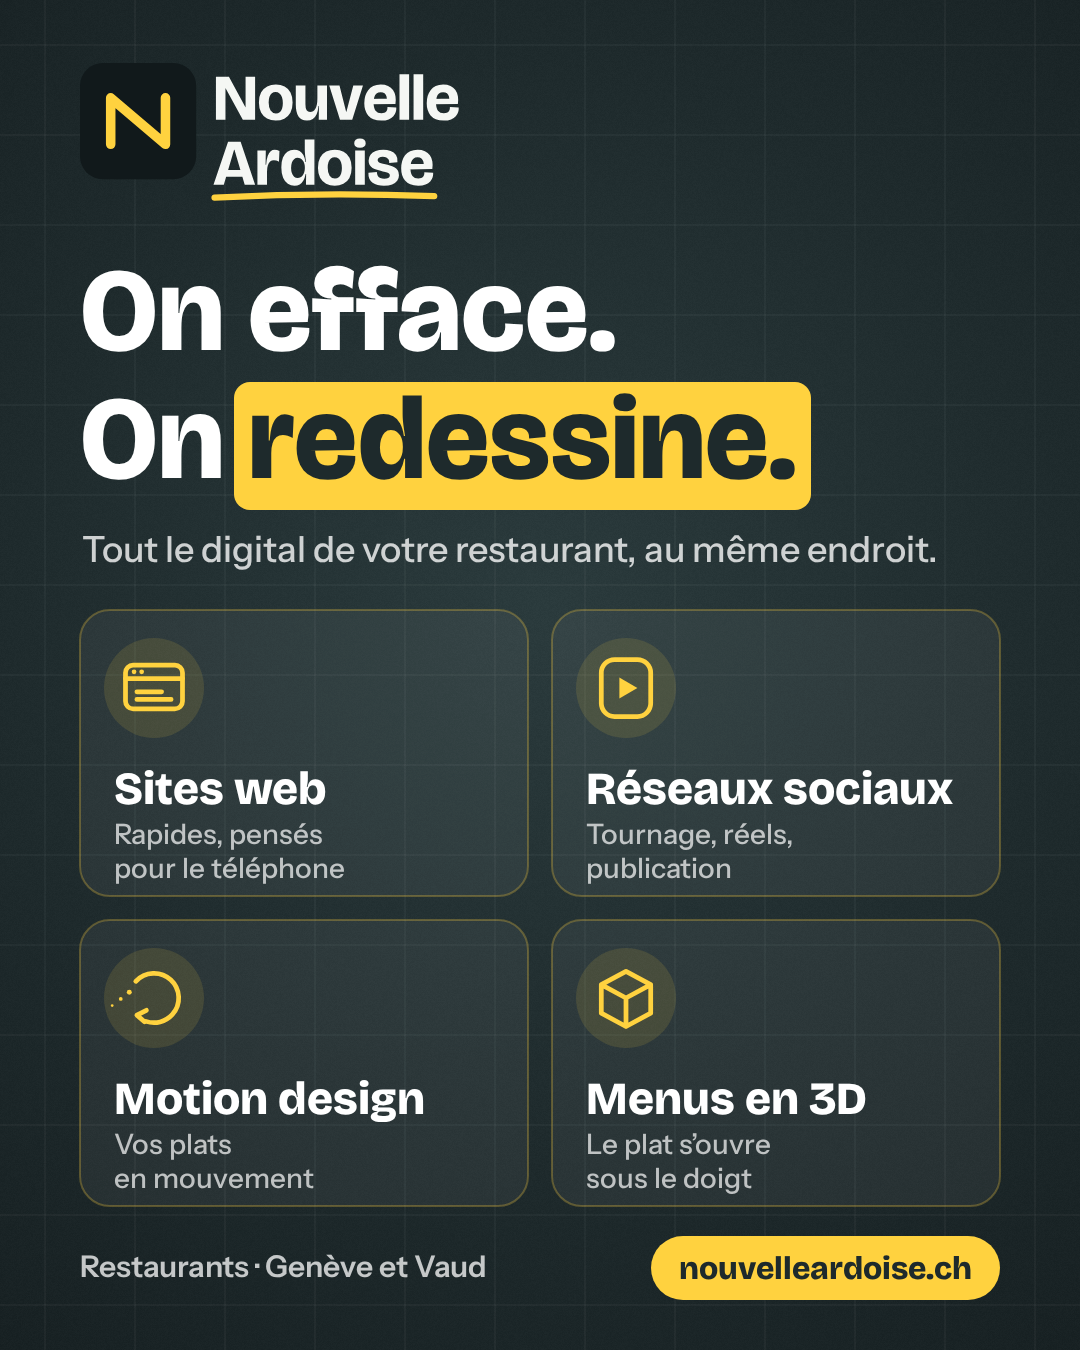
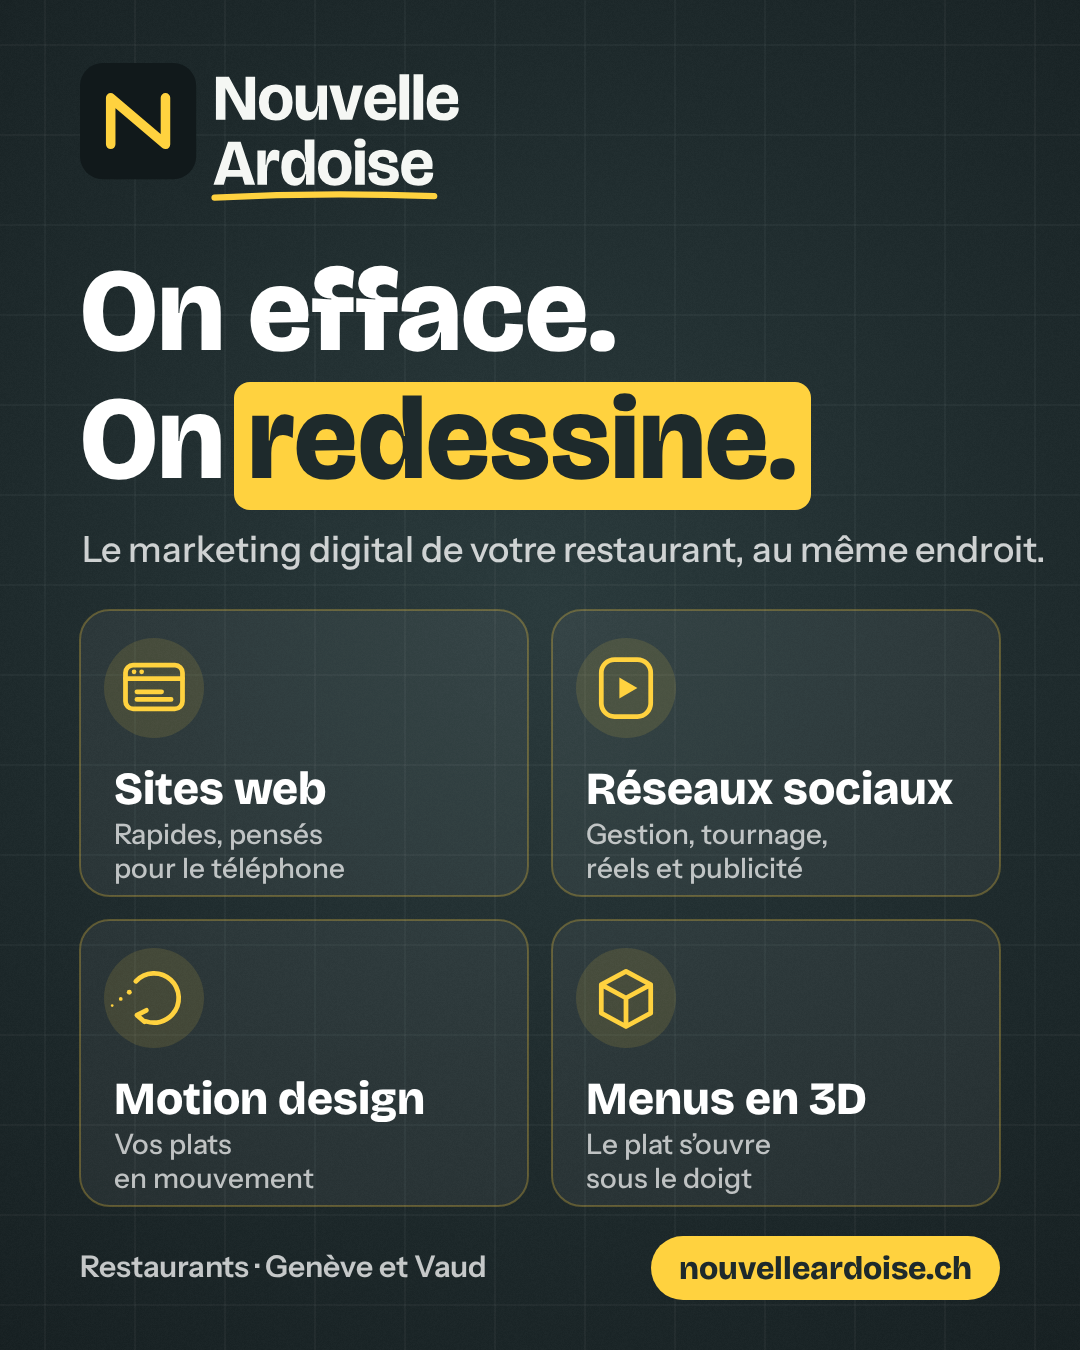
Mettre en avant la gestion des réseaux sociaux : sous-titre, pied de page, titre et description du site, image concept
Claude-Session: https://claude.ai/code/session_01Na8BpyZzW6x6KHtXhCHeFX

Changed region(s): [[0.0611, 0.3733, 0.9472, 0.4356], [0.55, 0.5911, 0.7639, 0.6533]]

diff --git a/marketing/kit-lancement/_sources/concept.html b/marketing/kit-lancement/_sources/concept.html
@@ -57,7 +57,7 @@ const ICONES = {
 };
 const METIERS = [
   ['site', 'Sites web', ['Rapides, pensés', 'pour le téléphone']],
-  ['reseaux', 'Réseaux sociaux', ['Tournage, réels,', 'publication']],
+  ['reseaux', 'Réseaux sociaux', ['Gestion, tournage,', 'réels et publicité']],
   ['motion', 'Motion design', ['Vos plats', 'en mouvement']],
   ['menu3d', 'Menus en 3D', ['Le plat s’ouvre', 'sous le doigt']],
 ];
@@ -79,7 +79,7 @@ function dessiner(F) {
   ctx.fillStyle = '#fff'; ctx.fillText('On', 80, F.titre + 118);
   ctx.fillStyle = ARD.ardoise; ctx.fillText('redessine.', xr, F.titre + 118);
   police(ctx, 36, 500, 'Instru'); ctx.fillStyle = 'rgba(255,255,255,0.78)';
-  ctx.fillText('Tout le digital de votre restaurant, au même endroit.', 82, F.grille - 48);
+  ctx.fillText('Le marketing digital de votre restaurant, au même endroit.', 82, F.grille - 48);
 
   // la grille des quatre métiers
   const gap = 24, cw = (F.l - 160 - gap) / 2;
